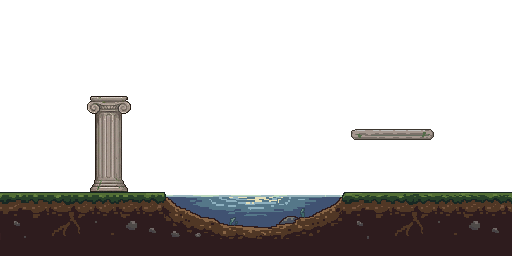
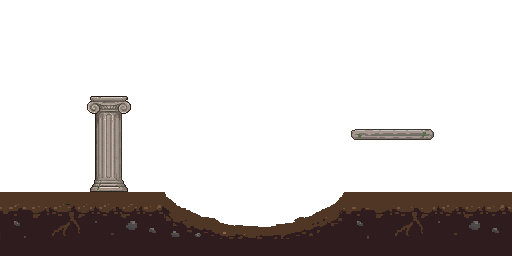
view modes

Changed region(s): [[0.0, 0.75, 1.0, 0.9062]]

diff --git a/ui/src/renderer/shaders.ts b/ui/src/renderer/shaders.ts
@@ -26,7 +26,7 @@ uniform sampler2D u_foreground;
 uniform sampler2D u_support;
 uniform sampler2D u_matter;
 uniform sampler2D u_foliage;
-uniform int u_view_mode;       // 0 = visual, 1 = matter, 2 = segmentation
+uniform int u_view_mode;       // 0 = visual, 1 = matter, 2 = segmentation, 3 = foliage
 uniform int u_foliage_enabled; // 1 = show foliage layer, 0 = hide
 
 out vec4 out_color;
@@ -59,6 +59,13 @@ void main() {
       segColor = vec3(0.3, 0.3, 0.3);   // gray = sky
     }
     out_color = vec4(segColor, 1.0);
+    return;
+  }
+
+  if (u_view_mode == 3) {
+    // Foliage-only view
+    vec4 fol = texture(u_foliage, uv);
+    out_color = vec4(fol.rgb, 1.0);
     return;
   }
 

diff --git a/ui/src/renderer/WebGLRenderer.ts b/ui/src/renderer/WebGLRenderer.ts
@@ -44,7 +44,7 @@ export function createWebGLRenderer(canvas: HTMLCanvasElement): WebGLRenderer {
   let lastFpsTime = performance.now();
   let frameTimes: number[] = [];
 
-  const MODE_NAMES = ["visual", "matter", "segmentation"];
+  const MODE_NAMES = ["visual", "matter", "segmentation", "foliage"];
 
   function updateFps(frameMs: number, viewMode: number, foliageEnabled: boolean) {
     frameCount++;

diff --git a/ui/src/renderer/LayerRenderer.ts b/ui/src/renderer/LayerRenderer.ts
@@ -158,7 +158,7 @@ export function createLayerRenderer(
   return {
     render,
     get viewMode() { return viewMode; },
-    set viewMode(v: number) { viewMode = v % 3; },
+    set viewMode(v: number) { viewMode = v % 4; },
     get foliageEnabled() { return foliageEnabled; },
     set foliageEnabled(v: boolean) { foliageEnabled = v; },
     dispose,
